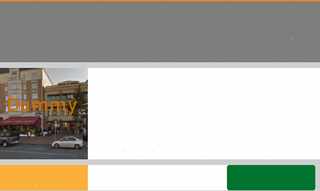
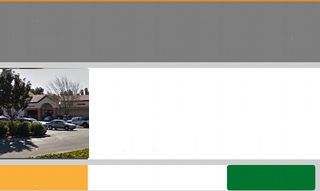
Demo build 1.0.9 Stubs and demo hacks

Changed region(s): [[0.0, 0.3403, 0.2812, 0.8377]]

diff --git a/ArgoPay/Testing/stubs/MerchantLocationDetail.js b/ArgoPay/Testing/stubs/MerchantLocationDetail.js
@@ -1,1 +1,1 @@
-{"Status":0,"Message":"","Description":"Everything I do is goin be funky from now on","Name":"World Around You","Addr1":"1234 First Ave.","Category":"Food & Pinball Machines","City":"CityField","Lat":39.067884,"Long":-77.080239,"State":"ST","Zip":"30009","Tel":"301-555-1234","ImageURL":"http:\/\/testingargo.192.168.1.2.xip.io\/_appIcon.png","Website":"http:\/\/chicken.com","ConsumerPoints":340,"Offers":[{"OfferID":100,"Type":"D","Selected":"Y","DateFrom":"2013-10-11 08:33:00","DateTo":"2013-12-11 08:33:00","DaysToUse":28,"Count":333,"AmountDiscount":33,"AmountMinimum":43,"PointBonus":33,"PointMultiplier":43,"ArgoBonus":33,"ArgoMultiplier":43,"MultipleUse":0,"LongDescription":"This is the loooong description that is foobar.","Description":"Everything I do is goin be funky from now on","Name":"Funky Cleaners","Addr1":"1234 First Ave.","City":"CityField","State":"ST","Zip":"30009","Tel":"301-555-1234","Lat":39.067884,"Long":-77.080239,"ImageURL":"http:\/\/testingargo.192.168.1.2.xip.io\/_appIcon.png","Website":"http:\/\/funkychicken.com"},{"OfferID":101,"Type":"D","Selected":"N","DateFrom":"2013-10-11 08:33:00","DateTo":"2013-12-11 08:33:00","DaysToUse":38,"Count":1333,"AmountDiscount":11,"AmountMinimum":111,"PointBonus":133,"PointMultiplier":43,"ArgoBonus":33,"ArgoMultiplier":43,"Description":"offer2 Everything I do is goin be funky from now on","LongDescription":"This is the 2 loooong description that is foobar.","Name":"Funky2 Cleaners","Addr1":"1234 First Ave.","City":"CityField","State":"ST","Lat":39.067884,"Long":-77.080239,"Zip":"30009","Tel":"301-555-1234","ImageURL":"http:\/\/testingargo.192.168.1.2.xip.io\/_appIcon.png","Website":"http:\/\/funky2chicken.com"},{"OfferID":103,"Type":"D","Selected":"Y","DateFrom":"2013-10-11 08:33:00","DateTo":"2013-12-11 08:33:00","DaysToUse":77,"Count":777,"AmountDiscount":733,"AmountMinimum":743,"PointBonus":373,"PointMultiplier":437,"ArgoBonus":3377,"ArgoMultiplier":7437,"Description":"offer3 Everything I do is goin be funky from now on","LongDescription":"This is 3 the loooong description that is foobar.","Name":"Funky3 Hot Dogs","Addr1":"1234 First Ave.","City":"CityField","State":"ST","Lat":39.067884,"Long":-77.080239,"Zip":"30009","Tel":"301-555-1234","ImageURL":"http:\/\/testingargo.192.168.1.2.xip.io\/_appIcon.png","Website":"http:\/\/funkyhotdogs.com"}],"Rewards":[{"RewardID":200,"DateFrom":"2013-10-11 08:33:00","Selected":"Y","Selectable":"Y","DateTo":"2013-12-11 08:33:00","AmountReward":8,"AmountMinimum":200,"MultipleUse":0,"PointsRequired":300,"LongDescription":"This is 1 the loooong description that is foobar.","Description":"Everything I do is goin be funky from now on","Name":"Funky Cleaners","Addr1":"1234 First Ave.","City":"CityField","Lat":39.067884,"Long":-77.080239,"State":"ST","Zip":"30009","Tel":"301-555-1234","ImageURL":"http:\/\/testingargo.192.168.1.2.xip.io\/_appIcon.png","Website":"http:\/\/funkychicken.com"},{"RewardID":201,"DateFrom":"2013-10-11 08:33:00","Selected":"N","Selectable":"Y","DateTo":"2013-12-11 08:33:00","AmountReward":12,"AmountMinimum":200,"MultipleUse":0,"PointsRequired":300,"LongDescription":"This is 2 the loooong description that is foobar.","Description":"Everything I do is goin be funky from now on","Name":"World Around You","Addr1":"1234 First Ave.","City":"CityField","Lat":39.067884,"Long":-77.080239,"State":"ST","Zip":"30009","Tel":"301-555-1234","ImageURL":"http:\/\/testingargo.192.168.1.2.xip.io\/_appIcon.png","Website":"http:\/\/chicken.com"},{"RewardID":203,"DateFrom":"2013-10-11 08:33:00","Selected":"N","Selectable":"N","DateTo":"2013-12-11 08:33:00","AmountReward":20,"AmountMinimum":300,"MultipleUse":0,"PointsRequired":400,"LongDescription":"This is 3 the loooong description that is foobar.","Description":"Everything I do is goin be funky from now on","Name":"World Around You","Addr1":"1234 First Ave.","City":"CityField","Lat":39.067884,"Long":-77.080239,"State":"ST","Zip":"30009","Tel":"301-555-1234","ImageURL":"http:\/\/testingargo.192.168.1.2.xip.io\/_appIcon.png","Website":"http:\/\/chicken.com"}]}
+{"Status":0,"Message":"","Description":"Fine wines for fine occasions.","Name":"Apex Wine Gallery","Addr1":"5101 Great America Pkwy","Category":"Wine","City":"Santa Clara","Lat":37.405161,"Long":-121.976592,"State":"CA","Zip":"95054","Tel":"415-708-6000","ImageURL":"http:\/\/testingargo.192.168.1.2.xip.io\/_appIcon.png","Website":"http:\/\/apexwine.com","ConsumerPoints":340,"Offers":[{"OfferID":100,"Type":"D","Selected":"Y","DateFrom":"2013-10-11 08:33:00","DateTo":"2013-12-11 08:33:00","DaysToUse":28,"Count":333,"AmountDiscount":33,"AmountMinimum":43,"PointBonus":33,"PointMultiplier":43,"ArgoBonus":33,"ArgoMultiplier":43,"MultipleUse":0,"LongDescription":"This is the loooong description that is foobar.","Description":"Everything I do is goin be funky from now on","Name":"Funky Cleaners","Addr1":"1234 First Ave.","City":"CityField","State":"ST","Zip":"30009","Tel":"301-555-1234","Lat":39.067884,"Long":-77.080239,"ImageURL":"http:\/\/testingargo.192.168.1.2.xip.io\/_appIcon.png","Website":"http:\/\/funkychicken.com"},{"OfferID":101,"Type":"D","Selected":"N","DateFrom":"2013-10-11 08:33:00","DateTo":"2013-12-11 08:33:00","DaysToUse":38,"Count":1333,"AmountDiscount":11,"AmountMinimum":111,"PointBonus":133,"PointMultiplier":43,"ArgoBonus":33,"ArgoMultiplier":43,"Description":"offer2 Everything I do is goin be funky from now on","LongDescription":"This is the 2 loooong description that is foobar.","Name":"Funky2 Cleaners","Addr1":"1234 First Ave.","City":"CityField","State":"ST","Lat":39.067884,"Long":-77.080239,"Zip":"30009","Tel":"301-555-1234","ImageURL":"http:\/\/testingargo.192.168.1.2.xip.io\/_appIcon.png","Website":"http:\/\/funky2chicken.com"},{"OfferID":103,"Type":"D","Selected":"Y","DateFrom":"2013-10-11 08:33:00","DateTo":"2013-12-11 08:33:00","DaysToUse":77,"Count":777,"AmountDiscount":733,"AmountMinimum":743,"PointBonus":373,"PointMultiplier":437,"ArgoBonus":3377,"ArgoMultiplier":7437,"Description":"offer3 Everything I do is goin be funky from now on","LongDescription":"This is 3 the loooong description that is foobar.","Name":"Funky3 Hot Dogs","Addr1":"1234 First Ave.","City":"CityField","State":"ST","Lat":39.067884,"Long":-77.080239,"Zip":"30009","Tel":"301-555-1234","ImageURL":"http:\/\/testingargo.192.168.1.2.xip.io\/_appIcon.png","Website":"http:\/\/funkyhotdogs.com"}],"Rewards":[{"RewardID":200,"DateFrom":"2013-10-11 08:33:00","Selected":"Y","Selectable":"Y","DateTo":"2013-12-11 08:33:00","AmountReward":8,"AmountMinimum":200,"MultipleUse":0,"PointsRequired":300,"LongDescription":"This is 1 the loooong description that is foobar.","Description":"Everything I do is goin be funky from now on","Name":"Funky Cleaners","Addr1":"1234 First Ave.","City":"CityField","Lat":39.067884,"Long":-77.080239,"State":"ST","Zip":"30009","Tel":"301-555-1234","ImageURL":"http:\/\/testingargo.192.168.1.2.xip.io\/_appIcon.png","Website":"http:\/\/funkychicken.com"},{"RewardID":201,"DateFrom":"2013-10-11 08:33:00","Selected":"N","Selectable":"Y","DateTo":"2013-12-11 08:33:00","AmountReward":12,"AmountMinimum":200,"MultipleUse":0,"PointsRequired":300,"LongDescription":"This is 2 the loooong description that is foobar.","Description":"Everything I do is goin be funky from now on","Name":"World Around You","Addr1":"1234 First Ave.","City":"CityField","Lat":39.067884,"Long":-77.080239,"State":"ST","Zip":"30009","Tel":"301-555-1234","ImageURL":"http:\/\/testingargo.192.168.1.2.xip.io\/_appIcon.png","Website":"http:\/\/chicken.com"},{"RewardID":203,"DateFrom":"2013-10-11 08:33:00","Selected":"N","Selectable":"N","DateTo":"2013-12-11 08:33:00","AmountReward":20,"AmountMinimum":300,"MultipleUse":0,"PointsRequired":400,"LongDescription":"This is 3 the loooong description that is foobar.","Description":"Everything I do is goin be funky from now on","Name":"World Around You","Addr1":"1234 First Ave.","City":"CityField","Lat":39.067884,"Long":-77.080239,"State":"ST","Zip":"30009","Tel":"301-555-1234","ImageURL":"http:\/\/testingargo.192.168.1.2.xip.io\/_appIcon.png","Website":"http:\/\/chicken.com"}]}

diff --git a/ArgoPay/Testing/stubs/MerchantLocationSearch.js b/ArgoPay/Testing/stubs/MerchantLocationSearch.js
@@ -1,1 +1,1 @@
-{"Status":0,"Message":"","Locations":[{"LongDescription":"This is 1 the loooong description that is foobar.","MLocID":"101","Description":"Everything I do is goin be funky from now on","Category":"Category1","Name":"Funky Cleaners","Addr1":"1234 First Ave.","Addr2":"addr2 for 1","City":"CityField","Lat":39.067884,"Long":-77.080239,"State":"ST","Zip":"30009","Tel":"301-555-1234","ImageURL":"http:\/\/testingargo.192.168.1.2.xip.io\/_appIcon.png","Website":"http:\/\/funkychicken.com"},{"LongDescription":"This is 2 the loooong description that is foobar.","Description":"Everything I do is goin be funky from now on","MLocID":"102","Category":"Category2","Name":"World Around You","Addr1":"1234 First Ave.","City":"CityField","Lat":39.067884,"Addr2":"addr2 for 2","Long":-77.080239,"State":"ST","Zip":"30009","Tel":"301-555-1234","ImageURL":"http:\/\/testingargo.192.168.1.2.xip.io\/_appIcon.png","Website":"http:\/\/chicken.com"},{"LongDescription":"This is 3 the loooong description that is foobar.","MLocID":"102","Description":"Everything I do is goin be funky from now on","Category":"Category3","Name":"World Around You","Addr1":"1234 First Ave.","Addr2":"addr2 for 3","City":"CityField","Lat":39.067884,"Long":-77.080239,"State":"ST","Zip":"30009","Tel":"301-555-1234","ImageURL":"http:\/\/testingargo.192.168.1.2.xip.io\/_appIcon.png","Website":"http:\/\/chicken.com"}]}
+{"Status": 0, "Message": "OK", "Locations": [{"Website": "", "City": "Santa Clara", "Name": "Apex Wine Gallery", "Zip": "02215", "Distance": 23.21, "ImageURL": "", "Category": "Liquor Store", "Long": "-121.97695200", "State": "MA", "MLocID": "7", "Addr1": "5105 Great America Parkway", "Lat": "37.40516100", "Addr2": "", "Description": ""}, {"Website": "", "City": "Santa Clara", "Name": "Mexican Restaurant", "Zip": "95404", "Distance": 13.25, "ImageURL": "", "Category": "Restaurant", "Long": "-121.96356900", "State": "CA", "MLocID": "4", "Addr1": "2215 Tasman Drive", "Lat": "37.24077000", "Addr2": "", "Description": ""}, {"Website": "", "City": "Santa Clara", "Name": "ABC Jewelry Store", "Zip": "95404", "Distance": 23.11, "ImageURL": "", "Category": "Jewelry", "Long": "-121.98575400", "State": "CA", "MLocID": "2", "Addr1": "4800 Patrick Henry Drive", "Lat": "37.40028700", "Addr2": "", "Description": ""}, {"Website": "", "City": "Santa Clara", "Name": "Joe's Restaurant", "Zip": "95404", "Distance": 23.11, "ImageURL": "", "Category": "Restaurant", "Long": "-121.97100100", "State": "CA", "MLocID": "1", "Addr1": "5151 Stars and Stripes Drive", "Lat": "37.40581200", "Addr2": "", "Description": ""}, {"Website": "", "City": "Santa Clara", "Name": "David's Chinese Fast Food", "Zip": "95404", "Distance": 23.51, "ImageURL": "", "Category": "Restaurant", "Long": "-121.97804000", "State": "CA", "MLocID": "5", "Addr1": "5350 Great America Parkway", "Lat": "37.40967500", "Addr2": "", "Description": ""}, {"Website": "", "City": "Santa Clara", "Name": "Anna's Tacos", "Zip": "95404", "Distance": 23.51, "ImageURL": "", "Category": "Restaurant", "Long": "-121.97804000", "State": "CA", "MLocID": "6", "Addr1": "5350 Great America Parkway", "Lat": "37.40967500", "Addr2": "", "Description": ""}, {"Website": "", "City": "Santa Clara", "Name": "Friendly Pet Shop", "Zip": "95404", "Distance": 23.64, "ImageURL": "", "Category": "Pets", "Long": "-121.98552700", "State": "CA", "MLocID": "3", "Addr1": "5440 Patrick Henry Drive", "Lat": "37.40885200", "Addr2": "", "Description": ""}]}

diff --git a/ArgoPay/Testing/stubs/ConsumerTransactionStatus.js b/ArgoPay/Testing/stubs/ConsumerTransactionStatus.js
@@ -1,1 +1,1 @@
-{"Status":0,"Message":"","TransStatus":"A","PayAmounts":[{"Desc":"Don't care","Amount":32.99}],"Amounts":[{"Type":"X","Amount":20},{"Type":"Q","Amount":3.22}],"TotalAmount":54.9,"MerchName":"Wine Gallery","MerchLocation":"DontCareVille, NY","MerchRegister":"Henry","Category":"Fine wines"}
+{"Status":0,"Message":"","TransStatus":"A","PayAmounts":[{"Desc":"Don't care","Amount":32.99}],"Amounts":[{"Type":"X","Amount":20},{"Type":"Q","Amount":3.22}],"TotalAmount":54.9,"MerchName":"Apex Wine Gallery","MerchLocation":"Santa Clara, CA","MerchRegister":"Henry","Category":"Fine wines"}

diff --git a/ArgoPay/Testing/stubs/ConsumerTransactionStart.js b/ArgoPay/Testing/stubs/ConsumerTransactionStart.js
@@ -1,1 +1,1 @@
-{"Status":0,"Message":"","TransID":"Some-trans-ID"}
+{"Status":0,"Message":"","TransID":1200}

diff --git a/ArgoPay/Testing/site/index.php b/ArgoPay/Testing/site/index.php
@@ -17,6 +17,8 @@ $value = array( 'Status' => 0, 'Message' => ''
                //,'rawPostData' => $HTTP_RAW_POST_DATA, 'callingParams' => $parameters
                );
 
+$output = 0;
+
 function addRewards()
 {
     /*
@@ -264,6 +266,11 @@ function addOffers()
     return array( $offer1, $offer2, $offer3 );
 }
 
+function getDemoMerchants()
+{
+    return '{"Status": 0, "Message": "OK", "Locations": [{"Website": "", "City": "Santa Clara", "Name": "Apex Wine Gallery", "Zip": "02215", "Distance": 23.21, "ImageURL": "", "Category": "Liquor Store", "Long": "-121.97695200", "State": "MA", "MLocID": "7", "Addr1": "5105 Great America Parkway", "Lat": "37.40516100", "Addr2": "", "Description": ""}, {"Website": "", "City": "Santa Clara", "Name": "Mexican Restaurant", "Zip": "95404", "Distance": 13.25, "ImageURL": "", "Category": "Restaurant", "Long": "-121.96356900", "State": "CA", "MLocID": "4", "Addr1": "2215 Tasman Drive", "Lat": "37.24077000", "Addr2": "", "Description": ""}, {"Website": "", "City": "Santa Clara", "Name": "ABC Jewelry Store", "Zip": "95404", "Distance": 23.11, "ImageURL": "", "Category": "Jewelry", "Long": "-121.98575400", "State": "CA", "MLocID": "2", "Addr1": "4800 Patrick Henry Drive", "Lat": "37.40028700", "Addr2": "", "Description": ""}, {"Website": "", "City": "Santa Clara", "Name": "Joe\'s Restaurant", "Zip": "95404", "Distance": 23.11, "ImageURL": "", "Category": "Restaurant", "Long": "-121.97100100", "State": "CA", "MLocID": "1", "Addr1": "5151 Stars and Stripes Drive", "Lat": "37.40581200", "Addr2": "", "Description": ""}, {"Website": "", "City": "Santa Clara", "Name": "David\'s Chinese Fast Food", "Zip": "95404", "Distance": 23.51, "ImageURL": "", "Category": "Restaurant", "Long": "-121.97804000", "State": "CA", "MLocID": "5", "Addr1": "5350 Great America Parkway", "Lat": "37.40967500", "Addr2": "", "Description": ""}, {"Website": "", "City": "Santa Clara", "Name": "Anna\'s Tacos", "Zip": "95404", "Distance": 23.51, "ImageURL": "", "Category": "Restaurant", "Long": "-121.97804000", "State": "CA", "MLocID": "6", "Addr1": "5350 Great America Parkway", "Lat": "37.40967500", "Addr2": "", "Description": ""}, {"Website": "", "City": "Santa Clara", "Name": "Friendly Pet Shop", "Zip": "95404", "Distance": 23.64, "ImageURL": "", "Category": "Pets", "Long": "-121.98552700", "State": "CA", "MLocID": "3", "Addr1": "5440 Patrick Henry Drive", "Lat": "37.40885200", "Addr2": "", "Description": ""}]}';
+}
+
 switch($_REQUEST['cmd'] )
 {
     case 'ConsumerLogin':
@@ -323,8 +330,16 @@ switch($_REQUEST['cmd'] )
         $value['Rewards'] = addRewards();
         break;
     }
-     
+
     case 'MerchantLocationSearch':
+    {
+        $output = getDemoMerchants();
+        print($output);
+        exit;
+        break;
+    }
+        
+    case 'MerchantLocationSearch_OLD':
     {
         $merch1 = array(
                          'LongDescription' => 'This is 1 the loooong description that is foobar.',
@@ -416,19 +431,19 @@ switch($_REQUEST['cmd'] )
          
          */
 
-        $value['Description'] = 'Everything I do is goin be funky from now on';
-        
-        $value['Name'] = 'World Around You';
-        $value['Addr1'] = '1234 First Ave.';
-        $value['Category'] = 'Food & Pinball Machines';
-        $value['City'] =  'CityField';
-        $value['Lat'] =  39.067884;
-        $value['Long'] =  -77.080239;
-        $value['State'] =  'ST';
-        $value['Zip'] =  '30009';
-        $value['Tel'] = '301-555-1234';
+        $value['Description'] = 'Fine wines for fine occasions.';
+        //5101 Great America Pkwy  Santa Clara, CA 95054
+        $value['Name'] = 'Apex Wine Gallery';
+        $value['Addr1'] = '5101 Great America Pkwy';
+        $value['Category'] = 'Wine';
+        $value['City'] =  'Santa Clara';
+        $value['Lat'] =  37.405161;
+        $value['Long'] = -121.976592;
+        $value['State'] =  'CA';
+        $value['Zip'] =  '95054';
+        $value['Tel'] = '415-708-6000';
         $value['ImageURL'] = 'http://'. $_SERVER[HTTP_HOST] .'/_appIcon.png';
-        $value['Website'] =  'http://chicken.com';
+        $value['Website'] =  'http://apexwine.com';
         $value['ConsumerPoints'] = 340;
         $value['Offers'] = addOffers();
         $value['Rewards'] = addRewards();
@@ -442,7 +457,7 @@ switch($_REQUEST['cmd'] )
          > AToken, QrData, Lat, Long, PayID
          < Status, Message, TransID
          */
-        $value['TransID'] = 'Some-trans-ID';
+        $value['TransID'] = 1200;
         break;
     }
         
@@ -461,8 +476,8 @@ switch($_REQUEST['cmd'] )
                                    array( 'Type'=> 'Q', 'Amount'=> 3.22 )
                                    );
         $value['TotalAmount'] = 54.9;
-        $value['MerchName'] = 'Wine Gallery';
-        $value['MerchLocation'] = 'DontCareVille, NY';
+        $value['MerchName'] = 'Apex Wine Gallery';
+        $value['MerchLocation'] = 'Santa Clara, CA';
         $value['MerchRegister'] = 'Henry';
         $value['Category'] = 'Fine wines';
         

diff --git a/ArgoPay/UI/APScanView.m b/ArgoPay/UI/APScanView.m
@@ -65,7 +65,7 @@ APLOGRELEASE
               UIViewController *vc = [delegate scanHostViewController];
               if( err )
               {
-                  APLOG(kDebugScan, @"Server responsded with error: %@", err);
+                  APLOG(kDebugScan, @"Server responded with error: %@", err);
                   [vc showError:err];
               }
               else
@@ -86,6 +86,7 @@ APLOGRELEASE
         UIViewController *vc = [_delegate scanHostViewController];
         if( err )
         {
+            [popup dismiss];
             [vc showError:err];
         }
         else
@@ -141,9 +142,10 @@ APLOGRELEASE
         if( error )
         {
             [self performBlock:^(id sender) {
+                [popup dismiss];
                 [vc showError:error];
             } afterDelay:0.1];
-            return YES;
+            return NO;
         }
         else
         {
@@ -155,9 +157,14 @@ APLOGRELEASE
             [start performRequest:^(APTransactionIDResponse *idResponse, NSError *err) {
                 [NSObject performBlock:^{
                     if( err )
+                    {
+                        [popup dismiss];
                         [vc showError:err];
+                    }
                     else
+                    {
                         [self handleTransaction:popup transID:idResponse.TransID];
+                    }
                 } afterDelay:0.1];
             }];
         }
@@ -177,7 +184,7 @@ APLOGRELEASE
     [reader.scanner setSymbology: ZBAR_QRCODE
                           config: ZBAR_CFG_ENABLE
                               to: 1];
-  //  reader.readerView.zoom = 0.8;
+    reader.readerView.zoom = 0.8;
     APLOG(kDebugScan, @"Returning reader %@", reader);
     return reader;
 }
@@ -191,6 +198,7 @@ APLOGRELEASE
     APScanResult * result = [APScanResult new];
     result.image = [info objectForKey: UIImagePickerControllerOriginalImage];
     result.text = sym.data;
+    APLOG(kDebugScan, @"Got scan result %@", result.text);
     [self closeReader:result];
 }
 

diff --git a/ArgoPay/UI/APMerchantDetailViewController.m b/ArgoPay/UI/APMerchantDetailViewController.m
@@ -14,6 +14,9 @@
 #import "APArgoPointsReward.h"
 #import "APMerchantMap.h"
 
+#define DEMO_HACK 1
+
+
 @implementation APMerchantDetailMapEmbedding {
     GMSMapView *mapView_;
 }
@@ -79,7 +82,7 @@
 @property (weak, nonatomic) IBOutlet UITableView *pointsTable;
 @property (weak, nonatomic) IBOutlet UIButton *discloseButton;
 
-@property (nonatomic,strong) NSString * MLocID;
+@property (nonatomic,strong) NSNumber * MLocID;
 @end
 
 @implementation APMerchantDetailViewController {
@@ -114,7 +117,7 @@ APLOGRELEASE
     
 }
 
--(void)setMLocID:(NSString *)MLocID
+-(void)setMLocID:(NSNumber *)MLocID
 {
     _MLocID = MLocID;
     if( _merchantName )
@@ -201,6 +204,14 @@ APLOGRELEASE
     request.AToken   = account.AToken;
     request.RewardID = reward.RewardID;
     
+    
+#ifdef DEMO_HACK
+    [reward setFetchingOFF];
+    reward.Selectable = @"N";
+    [_pointsTable reloadSections:[NSIndexSet indexSetWithIndex:0]
+                withRowAnimation:UITableViewRowAnimationMiddle];
+    _merchantPoints.text = @"200pts";
+#else
     [request performRequest:^(APRemoteRepsonse *response, NSError *err) {
         if( err )
         {
@@ -212,7 +223,7 @@ APLOGRELEASE
             self.MLocID = _MLocID;
         }
     }];
-    
+#endif
 }
 
 - (UITableViewCell *)tableView:(UITableView *)tableView cellForRowAtIndexPath:(NSIndexPath *)indexPath

diff --git a/ArgoPay/Network/APRemoteAPI.m b/ArgoPay/Network/APRemoteAPI.m
@@ -286,7 +286,7 @@ static APRemoteAPI * _sharedRemoteAPI;
     [client postPath:self.command
           parameters:self.remotableProperties
              success:^(AFHTTPRequestOperation *operation, NSDictionary *responseObject) {
-                 APLOG(kDebugFire, @"SENT: %@", [[NSString alloc] initWithData:operation.request.HTTPBody encoding:NSUTF8StringEncoding]);
+                 //APLOG(kDebugFire, @"SENT: %@", [[NSString alloc] initWithData:operation.request.HTTPBody encoding:NSUTF8StringEncoding]);
                  APLOG(kDebugFire, @"RECEIVED: %@", operation.responseString);
                  APRemoteRepsonse * response = [[APRemoteRepsonse alloc] initWithDictionary:responseObject];
                  APLOG(kDebugNetwork, @"Response: Status: %@\n    Msg: %@\n   UMsg: %@\n  count: %d\n rawParams:%@",

diff --git a/ArgoPay/Model/APMerchant.h b/ArgoPay/Model/APMerchant.h
@@ -22,7 +22,7 @@
  Lat, Long, Description, ImageURL, Website}
  */
 @interface APMerchant : APRemoteObject
-@property (nonatomic,strong) NSString *MLocID;
+@property (nonatomic,strong) NSNumber *MLocID;
 @property (nonatomic,strong) NSString *Category;
 @property (nonatomic,strong) NSString *Name;
 @property (nonatomic,strong) NSString *Addr1;
@@ -83,7 +83,7 @@
 
 @interface APRequestMerchantLocationDetail  : APRemoteRequest
 @property (nonatomic,strong) NSString *AToken; // can be nil
-@property (nonatomic,strong) NSString *MLocID;
+@property (nonatomic,strong) NSNumber *MLocID;
 @end
 
 @interface APMerchantDetail  : APMerchant

diff --git a/ArgoPay/Model/APTransaction.h b/ArgoPay/Model/APTransaction.h
@@ -16,7 +16,7 @@
 @interface APRequestTransactionStart : APRemoteRequest
 @property (nonatomic,strong) NSString * AToken;
 @property (nonatomic,strong) NSString * QrData;
-@property (nonatomic,strong) NSString * PayID; // always null for now
+@property (nonatomic,strong) NSNumber * PayID; // always null for now
 @property (nonatomic,strong) NSNumber *Lat;
 @property (nonatomic,strong) NSNumber *Long;
 @end

diff --git a/ArgoPay/Model/APTransaction.m b/ArgoPay/Model/APTransaction.m
@@ -13,8 +13,12 @@
 @implementation APRequestTransactionStart
 -(id)init
 {
-    return [super initWithCmd:kRemoteCmdConsumerTransactionStart
+    self = [super initWithCmd:kRemoteCmdConsumerTransactionStart
                     subDomain:kRemoteSubDomainTransaction];
+    if( self )
+        self.PayID = @(0);
+    
+    return self;
 }
 
 -(Class)payloadClass
